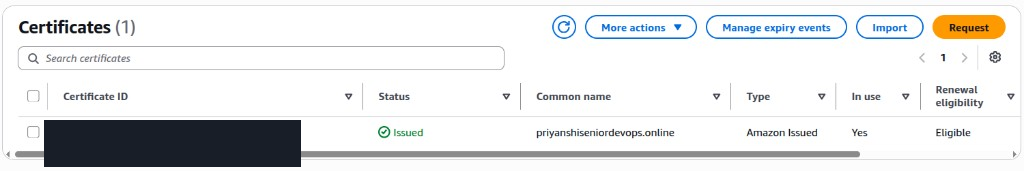
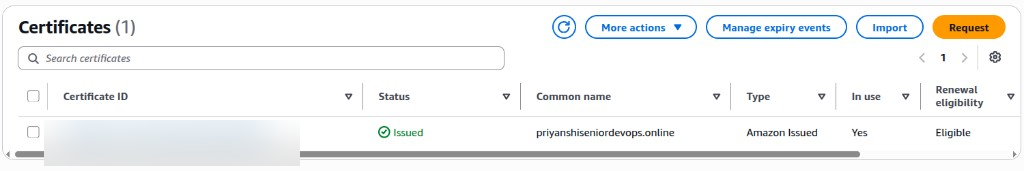
docs: add S3 Buckets section; genericize ACM domain to example.com and soften screenshot redaction

Changed region(s): [[0.0312, 0.7018, 0.3125, 0.9942]]

diff --git a/README.md b/README.md
@@ -238,7 +238,7 @@ A few map/list variables are **also gated by a toggle** — the list decides *wh
 | [Docker](#docker) | Containerizes each service into an image (built in CI and pushed to ECR) |
 | [EKS cluster](#deploying-eks-cluster) | The Kubernetes cluster that hosts the backend services (API Gateway, Position Tracker, Position Simulator) |
 | Load Balancer | Part of the Load Balancer Controller — exposes the API Gateway (and any other service we want to expose) |
-| S3 | Object storage — webapp static site (with CloudFront/OAC), CodePipeline artifacts, and the Terraform state bucket |
+| [S3](#s3-buckets) | Object storage — webapp static site (with CloudFront/OAC), CodePipeline artifacts, and the Terraform state bucket |
 | CloudFront | CDN in front of both the webapp and the API Gateway |
 | [Secrets Manager](#handling-environment-variables) | Stores the services' sensitive config (broker credentials, MongoDB URI), synced into the cluster by the External Secrets Operator |
 | SSM Parameter Store | Stores Amazon MQ's auto-generated broker credentials |
@@ -279,12 +279,13 @@ A few map/list variables are **also gated by a toggle** — the list decides *wh
 
 #### S3
 
-We need two S3 buckets:
+We use three private S3 buckets (details in [S3 Buckets](#s3-buckets)):
 
 | Bucket | Purpose | Created by |
 |--------|---------|-----------|
-| `fleetman-tf-state` | Stores the Terraform state file | Manually (it must already exist before Terraform can use it as its backend) |
-| `fleetman-codepipeline-artifacts` | Stores the artifacts passed between the stages of the AWS CodePipeline | Terraform |
+| `fleetman-terraform123` | Stores the Terraform state file | Manually (must exist before Terraform can use it as its backend) |
+| `fleet-management-system-codepipeline-artifacts-prod` | Artifacts passed between AWS CodePipeline stages | Terraform |
+| `fleetman-webapp-prod` | Hosts the built Angular webapp (served via CloudFront) | Terraform |
 
 #### How Each Service Is Deployed
 
@@ -1434,8 +1435,8 @@ For this project's sensitive values I use **AWS Secrets Manager**, since it's pu
 
 AWS Certificate Manager (ACM) issues and auto-renews the free **public TLS certificate** that gives our endpoints HTTPS. Fleetman uses a single public certificate that covers the root domain and a wildcard:
 
-- `priyanshiseniordevops.online`
-- `*.priyanshiseniordevops.online`
+- `example.com`
+- `*.example.com`
 
 The wildcard covers every subdomain we serve — `fleetman.*` (webapp), `fleetman-api.*` (API), and `fleetman-alb.*` (ALB origin) — so one certificate secures the whole stack.
 
@@ -1444,10 +1445,8 @@ The wildcard covers every subdomain we serve — `fleetman.*` (webapp), `fleetma
 ## Requesting the certificate (DNS validation)
 
 1. In ACM, choose **Request → Public certificate**.
-2. Add both names: `priyanshiseniordevops.online` and `*.priyanshiseniordevops.online`.
+2. Add both names: `example.com` and `*.example.com`.
 3. Pick **DNS validation** — ACM gives you a CNAME record per name to add at your DNS provider. Once those records resolve, ACM validates and the status flips to **Issued**. DNS validation also lets ACM **auto-renew** the certificate as long as the records stay in place.
-
-In this project the certificate is created **outside Terraform** — the tfvars sets `create_acm_certificate = false` and points at the existing cert ARN — so it must already exist and be **Issued** before you `terraform apply`.
 
 ![ACM certificate detail — both the root domain and the wildcard validated](docs/images/acm-certificate-detail.png)
 
@@ -1653,6 +1652,56 @@ log stream.
 A pipeline runs automatically on a new commit, or you can start it manually with the
 **Release change** button in the CodePipeline console (top-right in the screenshots above). It
 re-pulls the latest commit from the source branch and runs Source → Build → EKSDeploy.
+
+---
+
+# S3 Buckets
+
+Amazon S3 is object storage. This project uses **three private buckets**:
+
+- **Terraform state** — `fleetman-terraform123` (created by hand, before `terraform init`)
+- **CodePipeline artifacts** — `fleet-management-system-codepipeline-artifacts-prod` (created by Terraform)
+- **Webapp static site** — `fleetman-webapp-prod` (created by Terraform; served via CloudFront, covered in [Deploying the webapp](#deploying-the-webapp-cloudfront--s3))
+
+## S3 fundamentals
+
+- **Buckets are private by default.** A new bucket and its objects are **not** publicly reachable — you have to deliberately open them up. Access is granted through IAM policies, bucket policies, and (legacy) ACLs.
+- **ACLs — keep them disabled.** Access Control Lists are the old, per-object ownership/permission mechanism from before IAM policies. They make permissions hard to reason about (every object can have its own owner and grants) and are behind many accidental public-exposure incidents. AWS now recommends **disabling ACLs** via **Object Ownership = Bucket owner enforced**, so the bucket owner owns every object and access is decided purely by IAM/bucket policies. Leave ACLs disabled unless a legacy integration truly needs them.
+- **Block Public Access (BPA).** Four switches that act as a hard guardrail — they block and ignore public ACLs and public bucket policies even if someone sets one by mistake. **Turn all four on** for every bucket unless it is *intentionally* a public website. It's defense-in-depth on top of your policies.
+- **Bucket policy.** A resource-based JSON policy on the bucket stating *who* (which principals) may do *what* (actions) on *which* objects — e.g. "only this CloudFront distribution (via OAC) may read this bucket." Prefer specific, least-privilege principals over `*`.
+- **Versioning.** Keeps every version of an object, so overwrites and deletes are recoverable (a delete just adds a delete marker). Essential for buckets holding important state.
+- **CORS.** Cross-Origin Resource Sharing rules tell the browser which other origins may call the bucket directly from JavaScript. Only needed when a browser on a different domain fetches objects straight from S3 — **not** needed when a CDN (CloudFront) serves them or for backend-only buckets.
+
+## Terraform state bucket — `fleetman-terraform123`
+
+Holds the Terraform state (the record of everything Terraform manages). It must exist **before** `terraform init`, so it's created by hand. What it needs for production:
+
+- **Versioning: ON** — state is the source of truth; versioning lets you roll back a corrupted or accidentally-overwritten state file.
+- **Encryption: ON** — SSE-S3 (AES-256) at rest (use SSE-KMS if you need customer-managed/audited keys).
+- **Block Public Access: ON (all four)** — state must never be public.
+- **ACLs disabled** — Object Ownership = Bucket owner enforced.
+- **Access via IAM** — Terraform reads/writes state as the `devops` IAM user, whose policy allows `s3:ListBucket` + `s3:GetObject/PutObject/DeleteObject` on this bucket (no bucket policy needed when the same account's IAM user is used).
+
+**Recommended lifecycle policy (production):**
+
+- Keep **noncurrent (old) versions for 90 days**, then expire them.
+- **Abort incomplete multipart uploads after 7 days.**
+- **Never expire current objects** — you always want the latest state.
+
+## CodePipeline artifacts bucket — `fleet-management-system-codepipeline-artifacts-prod`
+
+CodePipeline passes artifacts (source zip, build output) between stages through this bucket; Terraform creates it. Production settings:
+
+- **Versioning:** optional — artifacts are short-lived and reproducible, so it can stay off.
+- **Encryption: ON** — SSE-S3 (AES-256).
+- **Block Public Access: ON (all four).**
+- **ACLs disabled** — Object Ownership = Bucket owner enforced.
+- **Access via IAM** — the CodePipeline/CodeBuild role has read/write permission on this bucket.
+
+**Recommended lifecycle policy (production):** artifacts pile up on every run, so expire aggressively:
+
+- **Expire current objects after ~7 days** (only needed during a run).
+- **Expire noncurrent versions after 1 day** and **abort incomplete multipart uploads after 1 day.**
 
 ---
 